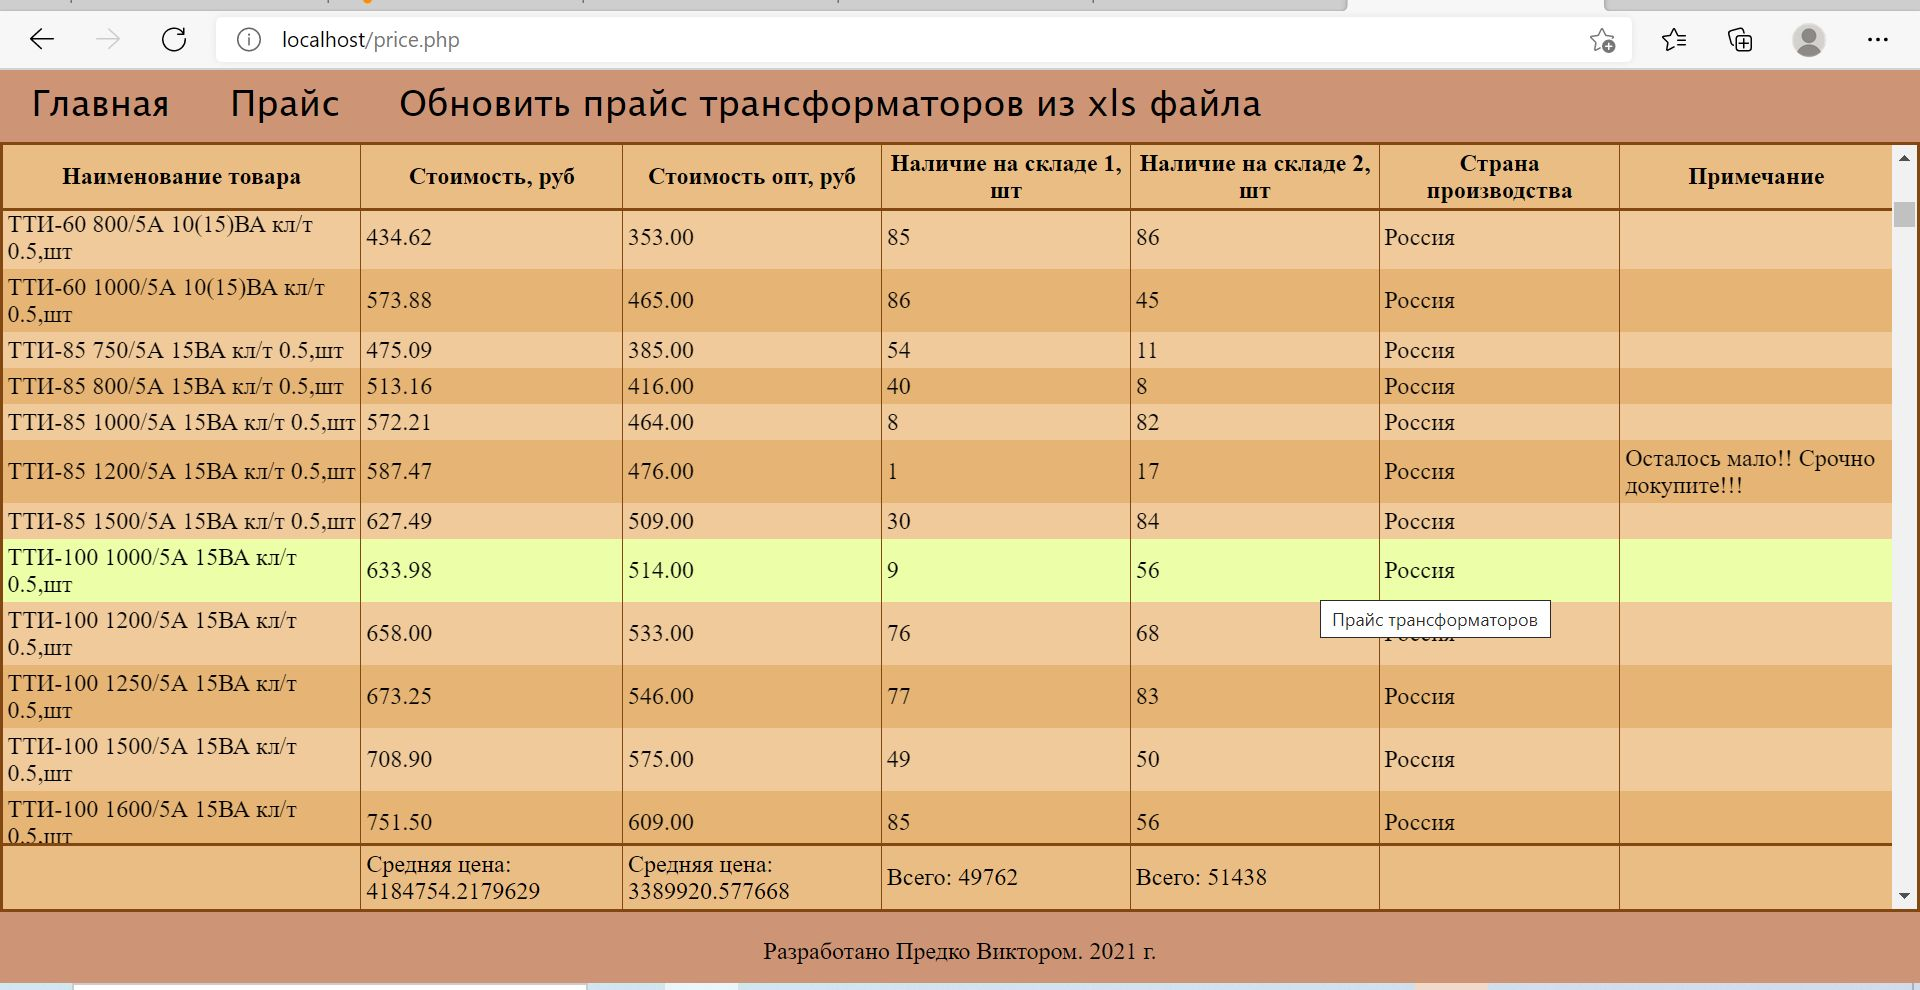
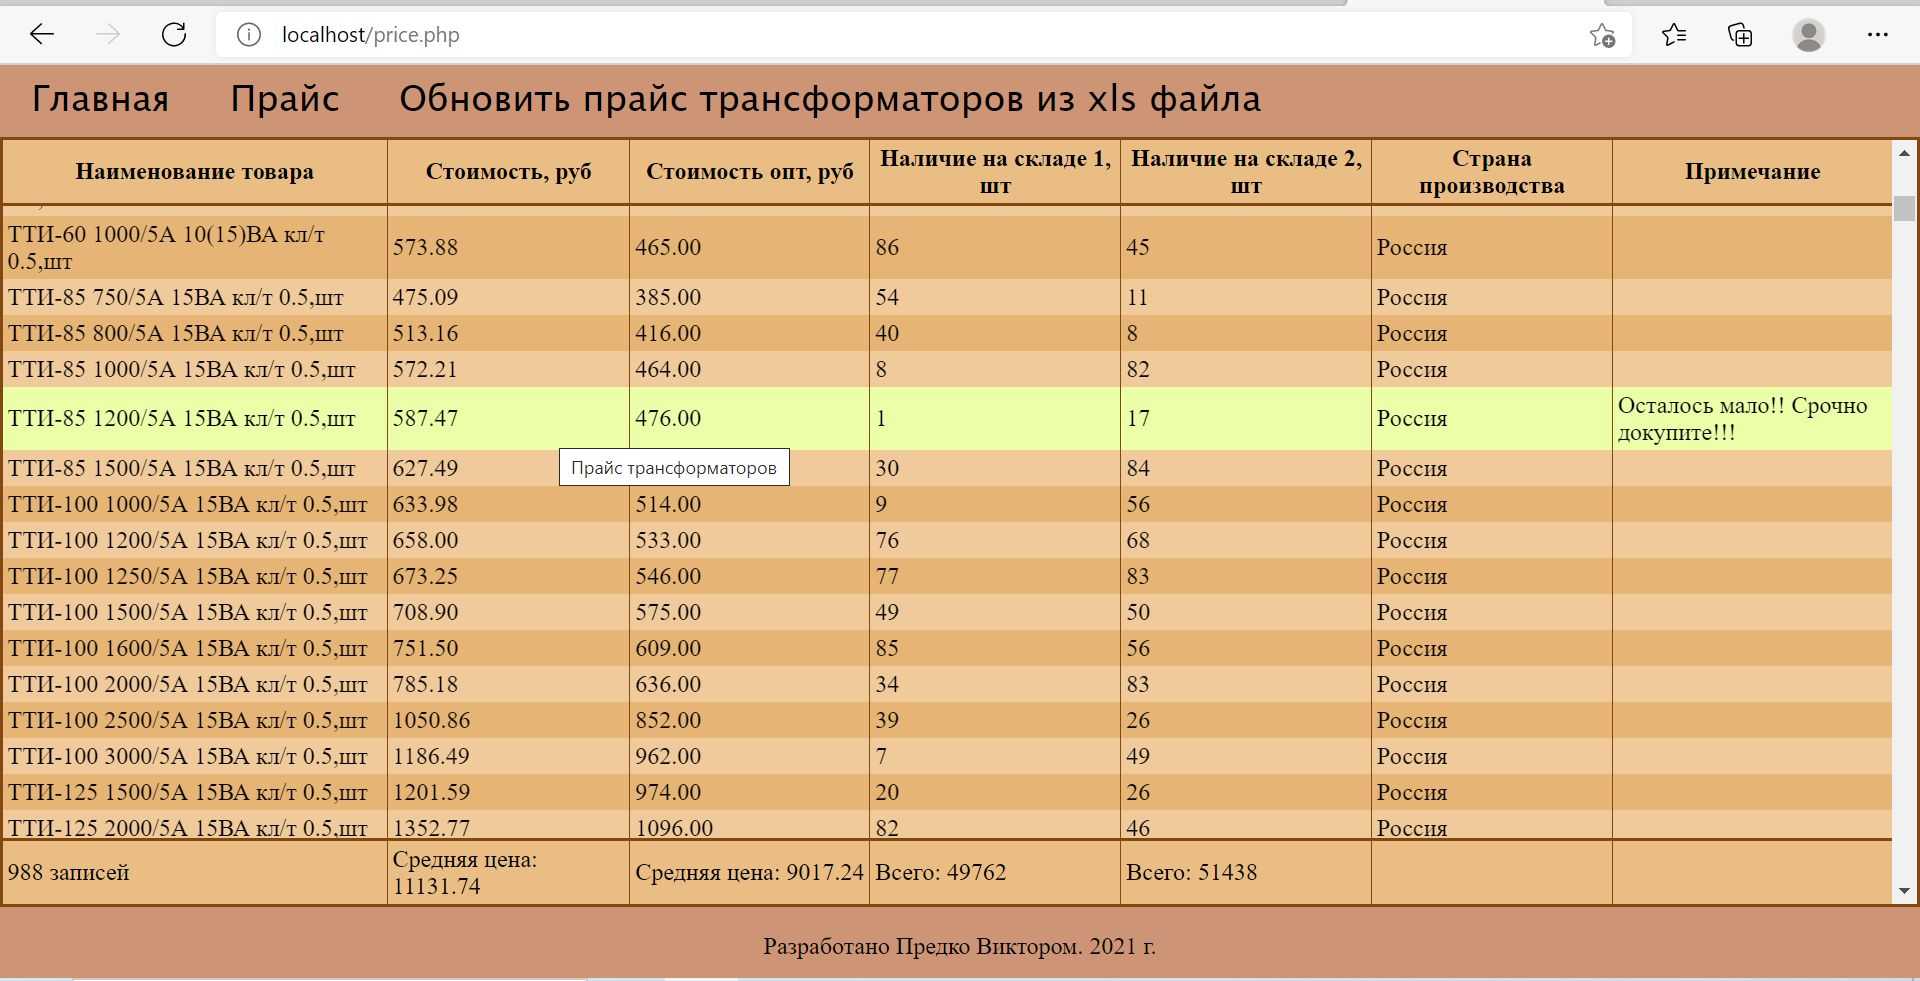
Исправлена ошибка подщёта среднего значения

diff --git a/price.php b/price.php
@@ -59,8 +59,8 @@ function MaxMinSumValues($values, $key)
 
   $inStock = $inStock1 + $inStock2;
 
-  $sumRetail += $values[TRANSFORMER_RETAIL] * $inStock;
-  $sumWholesale += $values[TRANSFORMER_WHOLESALE] * $inStock;
+  $sumRetail += $values[TRANSFORMER_RETAIL];
+  $sumWholesale += $values[TRANSFORMER_WHOLESALE];
 }
 
 array_walk($data, "MaxMinSumValues");
@@ -72,11 +72,11 @@ $table->Create($title, ["price"], null);
 // Массив заголовков таблицы.
 $table->AddRowThead($columnsName);
 
-$mediumRetail = $sumRetail / ($inStock1 + $inStock2);
-$mediumWholesale = $sumWholesale / ($inStock1 + $inStock2);
+$mediumRetail = round($sumRetail / count($data), 2);
+$mediumWholesale = round($sumWholesale / count($data), 2);
 
 $footerColumns = [
-  "",
+  count($data) . " записей",
   "Средняя цена: $mediumRetail",
   "Средняя цена: $mediumWholesale",
   "Всего: $inStock1",
